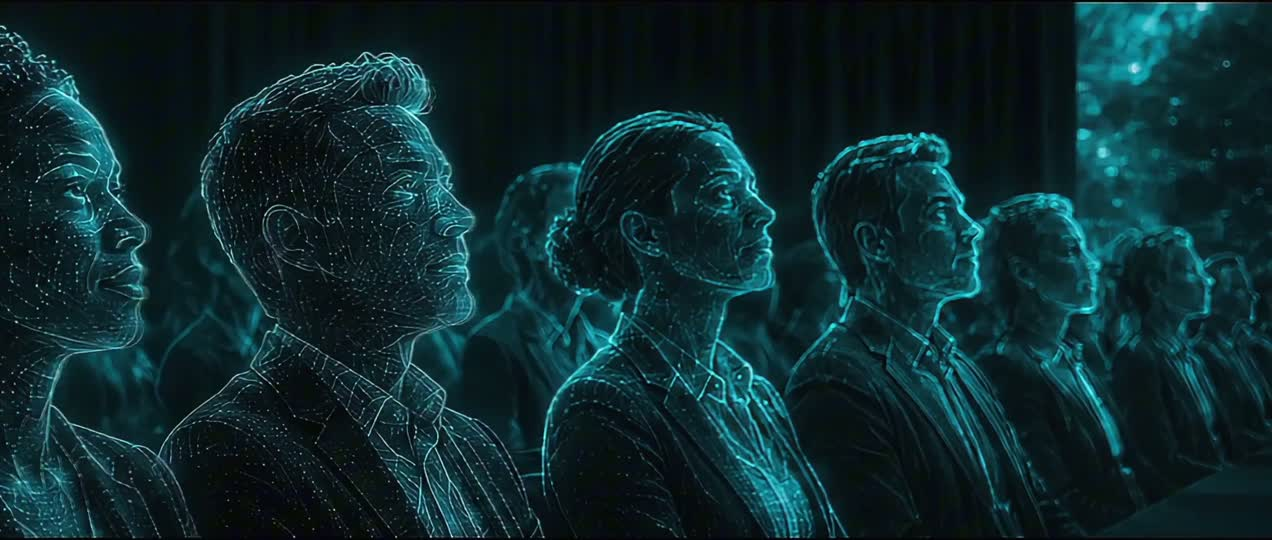
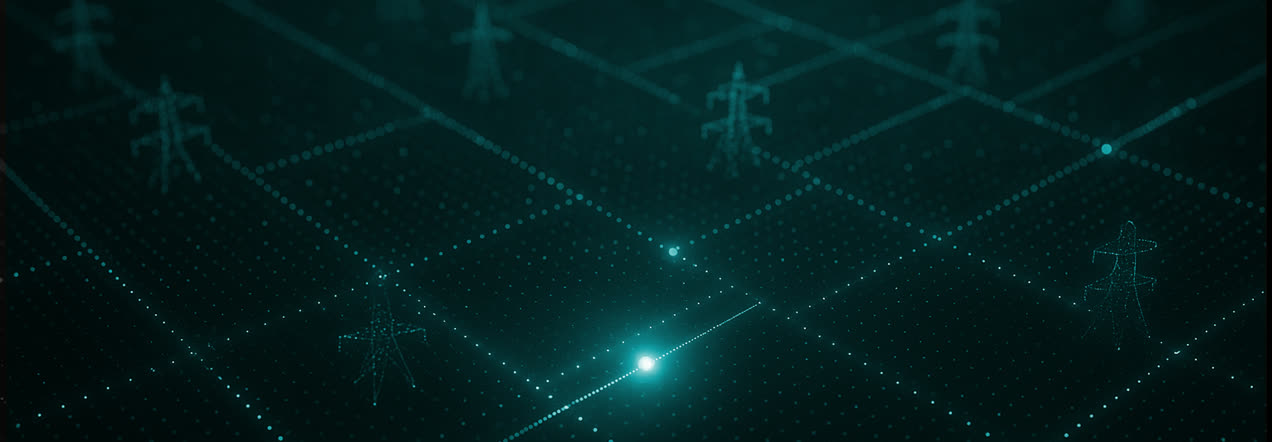
Film 4: grid/electron poster thumbnail + smaller player (cleaner inline playback)

diff --git a/film-4/index.html b/film-4/index.html
@@ -37,7 +37,7 @@
   .badge { display:inline-block; padding:4px 10px; border:1px solid var(--accent); color:var(--accent); border-radius:999px; font-size:10px; letter-spacing:0.18em; text-transform:uppercase; margin-left:10px; }
 
   main { padding: 48px 48px 96px; max-width: 1600px; margin: 0 auto; min-height: calc(100vh - 220px); display: flex; align-items: center; justify-content: center; }
-  .player-wrap { width: 100%; background:#000; border:1px solid var(--line); border-radius:6px; overflow:hidden; box-shadow: 0 24px 80px rgba(0,0,0,0.6); }
+  .player-wrap { width: 100%; max-width: 1080px; margin: 0 auto; background:#000; border:1px solid var(--line); border-radius:6px; overflow:hidden; box-shadow: 0 24px 80px rgba(0,0,0,0.6); }
   video { display:block; width:100%; height:auto; background:#000; }
 </style>
 </head>
